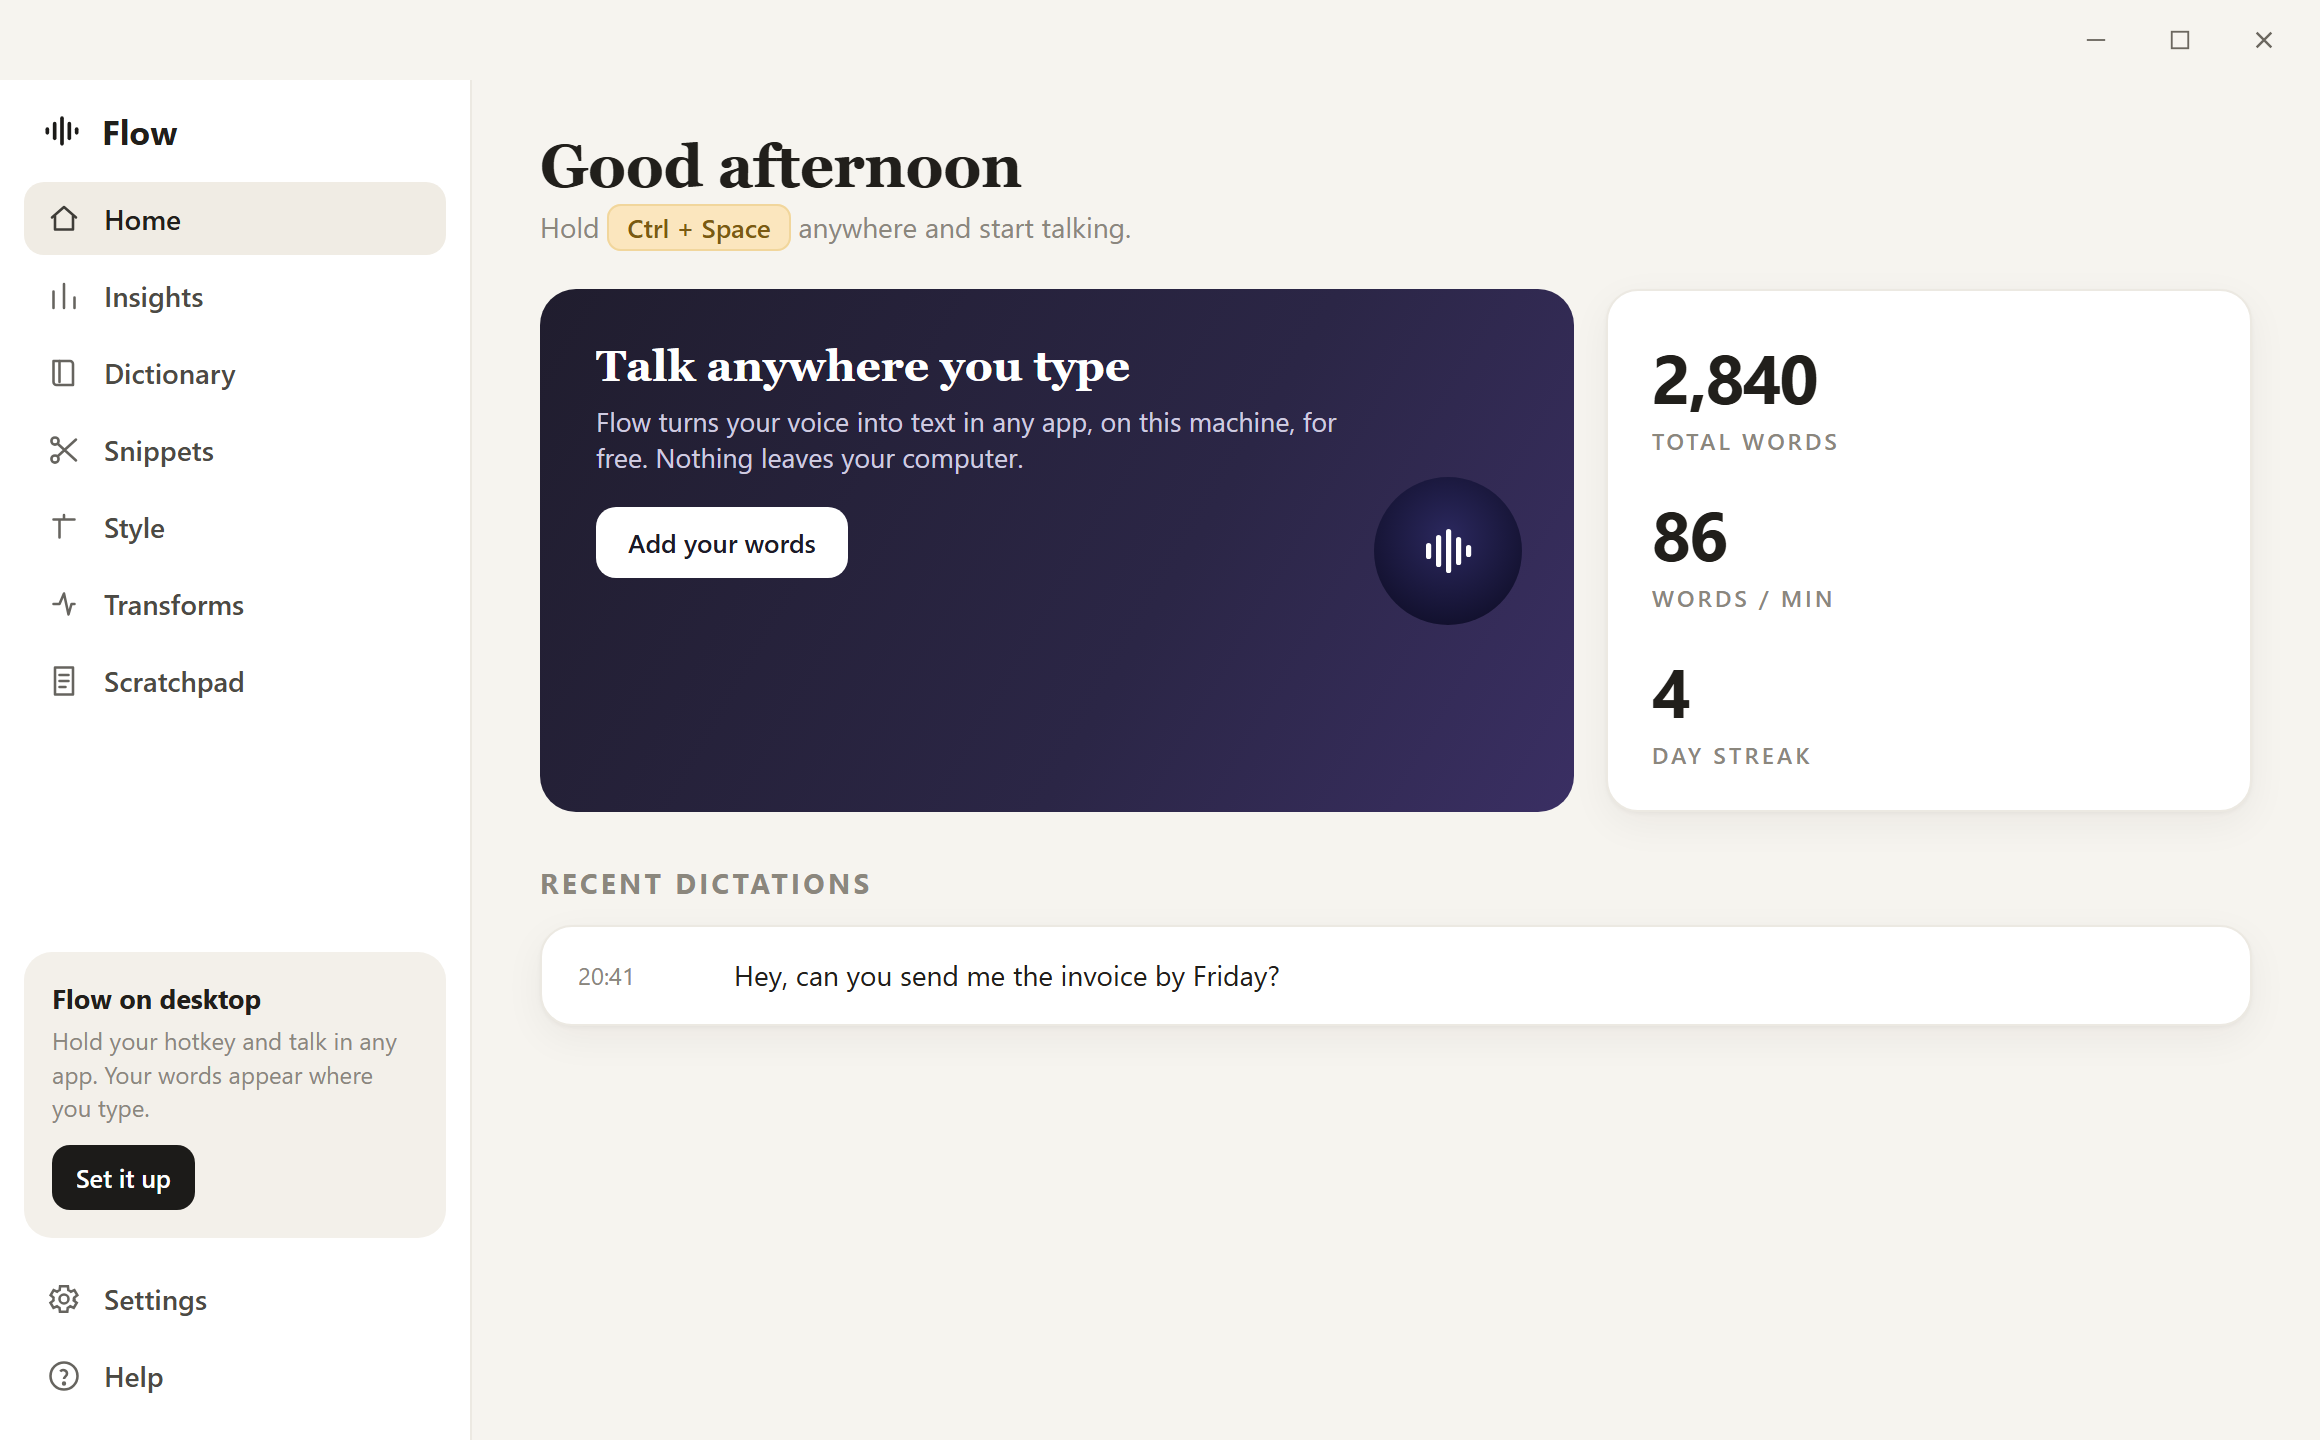
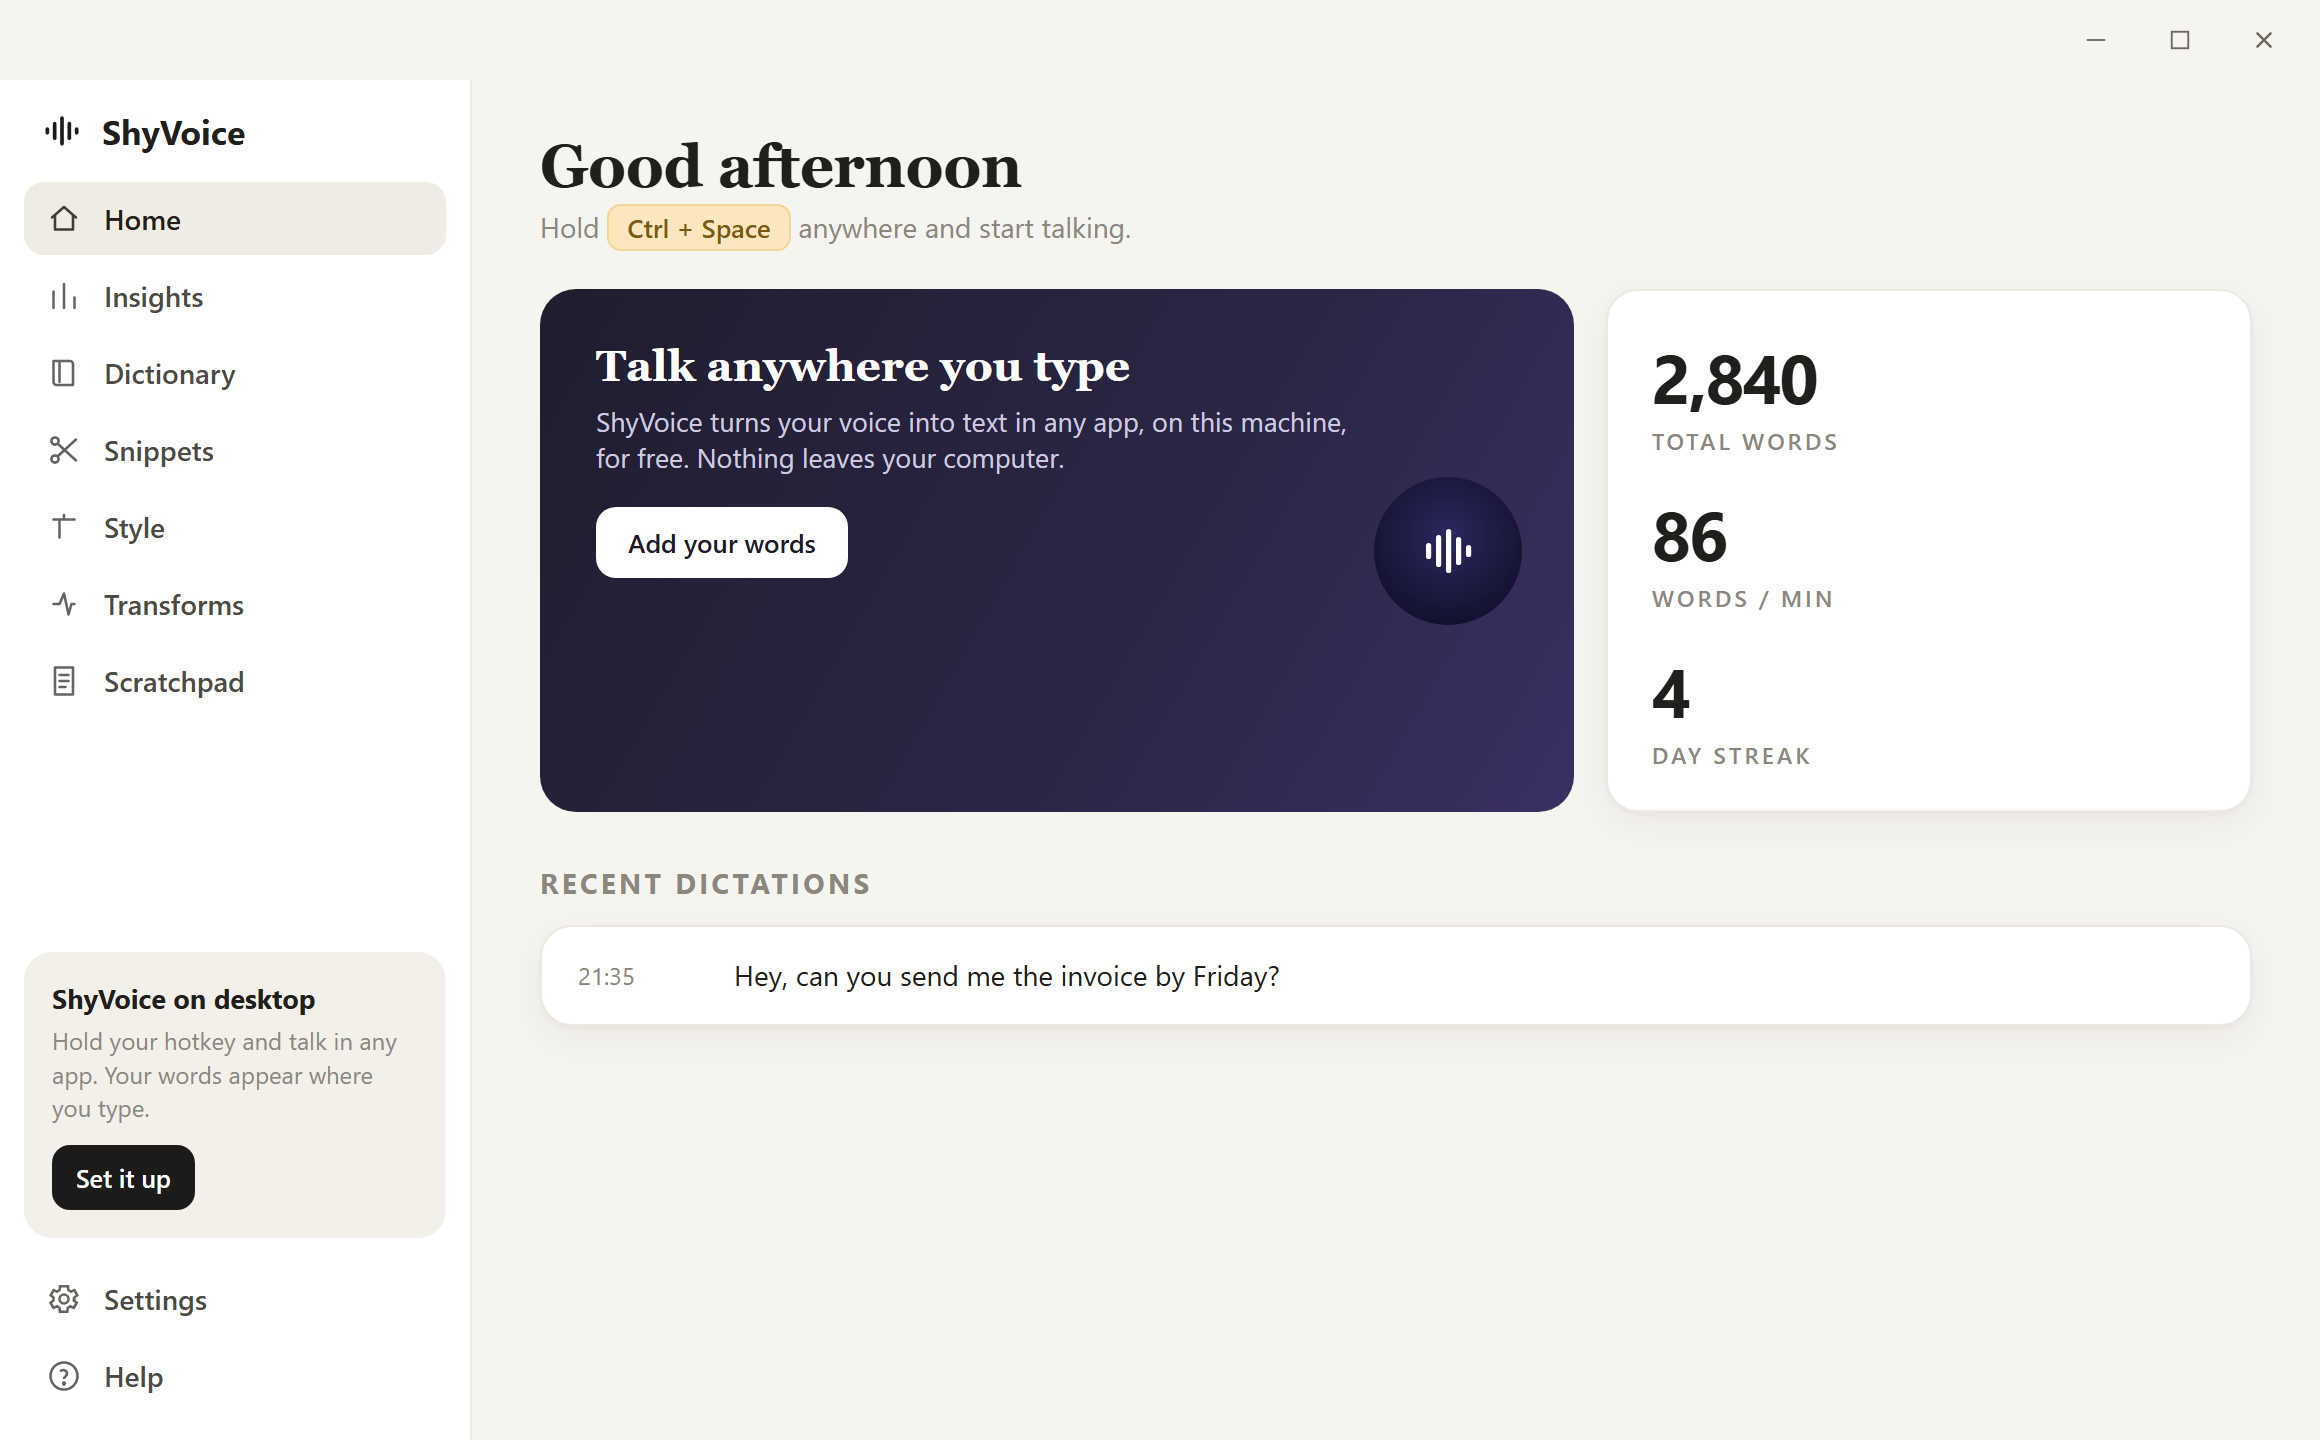
Rebrand Flow -> ShyVoice (a ShyLabs project)
Rename the app, UI, tray/window strings, exe (ShyVoice.exe), data folder, and
README to ShyVoice. Internal namespace/classes and the WebView bridge kept as-is.

diff --git a/ui/index.html b/ui/index.html
@@ -3,7 +3,7 @@
 <head>
 <meta charset="utf-8">
 <meta name="viewport" content="width=device-width, initial-scale=1">
-<title>Flow</title>
+<title>ShyVoice</title>
 <style>
   :root{
     --bg:#F6F4EF; --sidebar:#FFFFFF; --card:#FFFFFF; --ink:#211F1B; --muted:#8B877D;
@@ -150,10 +150,10 @@
     <aside class="sidebar">
       <div class="brand"><span class="logo">
         <svg viewBox="0 0 24 24" width="22" height="22"><g stroke="#1C1B19" stroke-width="2" stroke-linecap="round"><line x1="8" y1="8" x2="8" y2="16"/><line x1="12" y1="5" x2="12" y2="19"/><line x1="16" y1="8" x2="16" y2="16"/><line x1="20" y1="11" x2="20" y2="13"/><line x1="4" y1="11" x2="4" y2="13"/></g></svg>
-      </span>Flow</div>
+      </span>ShyVoice</div>
       <div class="navwrap"><nav id="nav"></nav></div>
       <div class="promo">
-        <h4>Flow on desktop</h4>
+        <h4>ShyVoice on desktop</h4>
         <p>Hold your hotkey and talk in any app. Your words appear where you type.</p>
         <button class="mini" data-nav="style">Set it up</button>
       </div>
@@ -170,7 +170,7 @@
         <div class="grid g2">
           <div class="banner">
             <h2>Talk anywhere you type</h2>
-            <p>Flow turns your voice into text in any app, on this machine, for free. Nothing leaves your computer.</p>
+            <p>ShyVoice turns your voice into text in any app, on this machine, for free. Nothing leaves your computer.</p>
             <button class="go" data-nav="dictionary">Add your words</button>
             <div class="orb"><svg width="40" height="40" viewBox="0 0 40 40"><g fill="#fff"><rect x="9" y="16" width="2.6" height="8" rx="1.3"/><rect x="14" y="12" width="2.6" height="16" rx="1.3"/><rect x="19" y="9" width="2.6" height="22" rx="1.3"/><rect x="24" y="13" width="2.6" height="14" rx="1.3"/><rect x="29" y="17" width="2.6" height="6" rx="1.3"/></g></svg></div>
           </div>
@@ -200,7 +200,7 @@
 
       <section class="page" id="page-dictionary">
         <h1 class="title">Dictionary</h1>
-        <p class="sub">Teach Flow the names and words you use so they spell right every time.</p>
+        <p class="sub">Teach ShyVoice the names and words you use so they spell right every time.</p>
         <div class="card" style="padding:18px 20px">
           <div id="dictChips"></div>
           <div class="addrow">
@@ -225,7 +225,7 @@
 
       <section class="page" id="page-style">
         <h1 class="title">Style</h1>
-        <p class="sub">How Flow formats what you say.</p>
+        <p class="sub">How ShyVoice formats what you say.</p>
         <div class="card" id="styleCard"></div>
         <div class="sectionhead"><h3>Bar color</h3></div>
         <div class="card" style="padding:16px 18px"><div id="themeRow" style="display:flex;gap:10px;flex-wrap:wrap"></div></div>

diff --git a/src/FlowContext.cs b/src/FlowContext.cs
@@ -54,7 +54,7 @@ public sealed class FlowContext : ApplicationContext
         _tray = new NotifyIcon
         {
             Icon = IconFactory.Create(_settings.Enabled),
-            Text = "Flow — loading model…",
+            Text = "ShyVoice — loading model…",
             Visible = true,
         };
         BuildMenu();
@@ -97,12 +97,12 @@ public sealed class FlowContext : ApplicationContext
             {
                 // First run with no model: fetch the default one (~148 MB) automatically.
                 SetStatus("Downloading model…");
-                _tray.ShowBalloonTip(4000, "Flow", "First run: downloading the speech model (~148 MB). One-time.", ToolTipIcon.Info);
+                _tray.ShowBalloonTip(4000, "ShyVoice", "First run: downloading the speech model (~148 MB). One-time.", ToolTipIcon.Info);
                 bool ok = await TryDownloadModelAsync(model);
                 if (!ok || !File.Exists(model))
                 {
                     SetStatus("Model not found");
-                    _tray.ShowBalloonTip(9000, "Flow",
+                    _tray.ShowBalloonTip(9000, "ShyVoice",
                         $"Couldn't download the speech model.\nPut a ggml model here and restart:\n{Path.GetDirectoryName(model)}",
                         ToolTipIcon.Warning);
                     return;
@@ -121,13 +121,13 @@ public sealed class FlowContext : ApplicationContext
 
             _modelReady = true;
             SetStatus(_settings.Enabled ? "Ready" : "Disabled");
-            _tray.ShowBalloonTip(3000, "Flow is ready",
+            _tray.ShowBalloonTip(3000, "ShyVoice is ready",
                 $"Hold {_settings.Modifier} + {_settings.Key} and speak.", ToolTipIcon.Info);
         }
         catch (Exception ex)
         {
             SetStatus("Model failed to load");
-            _tray.ShowBalloonTip(6000, "Flow error", ex.Message, ToolTipIcon.Error);
+            _tray.ShowBalloonTip(6000, "ShyVoice error", ex.Message, ToolTipIcon.Error);
         }
     }
 
@@ -166,7 +166,7 @@ public sealed class FlowContext : ApplicationContext
         if (!_settings.Enabled || _busy) return;
         if (!_modelReady)
         {
-            _tray.ShowBalloonTip(2000, "Flow", "Still loading the model, one sec…", ToolTipIcon.Info);
+            _tray.ShowBalloonTip(2000, "ShyVoice", "Still loading the model, one sec…", ToolTipIcon.Info);
             return;
         }
         if (_recorder.IsRecording) return;
@@ -310,7 +310,7 @@ public sealed class FlowContext : ApplicationContext
         }
         catch (Exception ex)
         {
-            _tray.ShowBalloonTip(4000, "Flow error", ex.Message, ToolTipIcon.Error);
+            _tray.ShowBalloonTip(4000, "ShyVoice error", ex.Message, ToolTipIcon.Error);
         }
         finally
         {
@@ -350,7 +350,7 @@ public sealed class FlowContext : ApplicationContext
     {
         var menu = new ContextMenuStrip();
 
-        _statusItem = new ToolStripMenuItem("Flow — loading…") { Enabled = false };
+        _statusItem = new ToolStripMenuItem("ShyVoice — loading…") { Enabled = false };
         menu.Items.Add(_statusItem);
         menu.Items.Add(new ToolStripMenuItem($"Hold {_settings.Modifier} + {_settings.Key} to talk") { Enabled = false });
         menu.Items.Add(new ToolStripMenuItem($"Hold {_settings.TransformModifier} + {_settings.TransformKey} to polish") { Enabled = false });
@@ -358,7 +358,7 @@ public sealed class FlowContext : ApplicationContext
 
         menu.Items.Add(new ToolStripSeparator());
 
-        var openItem = new ToolStripMenuItem("Open Flow", null, (_, _) => OpenMain());
+        var openItem = new ToolStripMenuItem("Open ShyVoice", null, (_, _) => OpenMain());
         openItem.Font = new Font(openItem.Font, FontStyle.Bold);
         menu.Items.Add(openItem);
 
@@ -411,7 +411,7 @@ public sealed class FlowContext : ApplicationContext
         menu.Items.Add(new ToolStripMenuItem("Open data folder", null, (_, _) => OpenPath(AppSettings.DataDir)));
 
         menu.Items.Add(new ToolStripSeparator());
-        menu.Items.Add(new ToolStripMenuItem("Quit Flow", null, (_, _) => Quit()));
+        menu.Items.Add(new ToolStripMenuItem("Quit ShyVoice", null, (_, _) => Quit()));
 
         _tray.ContextMenuStrip = menu;
     }
@@ -457,7 +457,7 @@ public sealed class FlowContext : ApplicationContext
         _ai = new AiTransformer(_settings);
         _overlay.Theme = PillThemes.Get(_settings.Theme);
 
-        if (notify) _tray.ShowBalloonTip(2000, "Flow", "Dictionary and snippets reloaded.", ToolTipIcon.Info);
+        if (notify) _tray.ShowBalloonTip(2000, "ShyVoice", "Dictionary and snippets reloaded.", ToolTipIcon.Info);
     }
 
     private void OpenMain()
@@ -468,8 +468,8 @@ public sealed class FlowContext : ApplicationContext
 
     private void SetStatus(string status)
     {
-        _statusItem.Text = $"Flow — {status}";
-        _tray.Text = $"Flow — {status}";
+        _statusItem.Text = $"ShyVoice — {status}";
+        _tray.Text = $"ShyVoice — {status}";
     }
 
     private static void OpenPath(string path)

diff --git a/Program.cs b/Program.cs
@@ -10,11 +10,11 @@ internal static class Program
     [STAThread]
     private static void Main()
     {
-        using var mutex = new Mutex(true, "Flow_VoiceDictation_SingleInstance", out bool isNew);
+        using var mutex = new Mutex(true, "ShyVoice_SingleInstance", out bool isNew);
         if (!isNew)
         {
-            MessageBox.Show("Flow is already running. Look for the mic icon in your system tray.",
-                "Flow", MessageBoxButtons.OK, MessageBoxIcon.Information);
+            MessageBox.Show("ShyVoice is already running. Look for the mic icon in your system tray.",
+                "ShyVoice", MessageBoxButtons.OK, MessageBoxIcon.Information);
             return;
         }
 

diff --git a/src/MainWindow.cs b/src/MainWindow.cs
@@ -24,7 +24,7 @@ public sealed class MainWindow : Form
     {
         _bridge = new FlowBridge(this, reloadData);
 
-        Text = "Flow";
+        Text = "ShyVoice";
         FormBorderStyle = FormBorderStyle.None;
         StartPosition = FormStartPosition.CenterScreen;
         ClientSize = new Size(1180, 800);
@@ -68,7 +68,7 @@ public sealed class MainWindow : Form
         }
         catch (Exception ex)
         {
-            MessageBox.Show("Could not start the Flow window.\n\n" + ex.Message, "Flow",
+            MessageBox.Show("Could not start the ShyVoice window.\n\n" + ex.Message, "ShyVoice",
                 MessageBoxButtons.OK, MessageBoxIcon.Error);
         }
     }

diff --git a/src/StartupManager.cs b/src/StartupManager.cs
@@ -3,11 +3,11 @@ using Microsoft.Win32;
 
 namespace Flow;
 
-/// <summary>Toggles "launch Flow when I sign in" via the per-user Run registry key.</summary>
+/// <summary>Toggles "launch ShyVoice when I sign in" via the per-user Run registry key.</summary>
 internal static class StartupManager
 {
     private const string RunKey = @"Software\Microsoft\Windows\CurrentVersion\Run";
-    private const string ValueName = "Flow";
+    private const string ValueName = "ShyVoice";
 
     public static bool IsEnabled()
     {

diff --git a/src/AppSettings.cs b/src/AppSettings.cs
@@ -40,7 +40,7 @@ public sealed class AppSettings
     public string ScratchKey { get; set; } = "N";
 
     public static string DataDir =>
-        Path.Combine(Environment.GetFolderPath(Environment.SpecialFolder.ApplicationData), "Flow");
+        Path.Combine(Environment.GetFolderPath(Environment.SpecialFolder.ApplicationData), "ShyVoice");
 
     public static string SettingsPath => Path.Combine(DataDir, "settings.json");
 

diff --git a/src/InsightsForm.cs b/src/InsightsForm.cs
@@ -9,7 +9,7 @@ public sealed class InsightsForm : Form
 {
     public InsightsForm(Insights i)
     {
-        Text = "Flow — Insights";
+        Text = "ShyVoice — Insights";
         FormBorderStyle = FormBorderStyle.FixedDialog;
         MaximizeBox = false;
         MinimizeBox = false;

diff --git a/README.md b/README.md
@@ -1,12 +1,14 @@
 <div align="center">
 
-# 🎙️ Flow
+# 🎙️ ShyVoice
 
 ### Free, private voice dictation for Windows. Hold a key, talk, and your words appear in any app.
 
-Flow is a free and open-source alternative to paid dictation apps like Wispr Flow.
+ShyVoice is a free and open-source alternative to paid dictation apps like Wispr Flow.
 Speech-to-text runs **100% on your own machine** with [Whisper](https://github.com/ggerganov/whisper.cpp) —
 no account, no subscription, no per-word cost, and nothing ever leaves your computer.
+
+<sub>A **ShyLabs** project.</sub>
 
 [![License: MIT](https://img.shields.io/badge/License-MIT-17836B.svg)](LICENSE)
 ![Platform](https://img.shields.io/badge/Windows-x64%20%7C%20ARM64-0078D6)
@@ -14,15 +16,15 @@ no account, no subscription, no per-word cost, and nothing ever leaves your comp
 ![Local & Private](https://img.shields.io/badge/100%25-Local%20%26%20Private-17836B)
 ![Price](https://img.shields.io/badge/Price-Free%20forever-2ea44f)
 
-<img src="docs/screenshot.png" alt="Flow dashboard" width="820">
+<img src="docs/screenshot.png" alt="ShyVoice dashboard" width="820">
 
 </div>
 
 ---
 
-## Why Flow?
+## Why ShyVoice?
 
-Good dictation apps cost money and send your voice to their servers. Flow does neither.
+Good dictation apps cost money and send your voice to their servers. ShyVoice does neither.
 
 - 🆓 **Actually free** — no trial, no subscription, no usage cap. MIT licensed.
 - 🔒 **Private by design** — audio is transcribed locally with Whisper and never uploaded. It works with your Wi-Fi off.
@@ -36,10 +38,10 @@ Good dictation apps cost money and send your voice to their servers. Flow does n
 ### Option 1 — Download and run (easiest)
 
 1. Grab the latest **[Release](../../releases/latest)** and download the ZIP for your PC:
-   - `Flow-win-x64.zip` — most Windows PCs (Intel / AMD)
-   - `Flow-win-arm64.zip` — Windows on ARM (Snapdragon, etc.)
-2. Unzip it anywhere and run **`Flow.exe`**.
-3. On first launch Flow downloads the speech model once (~148 MB), then a **"Flow is ready"** popup appears.
+   - `ShyVoice-win-x64.zip` — most Windows PCs (Intel / AMD)
+   - `ShyVoice-win-arm64.zip` — Windows on ARM (Snapdragon, etc.)
+2. Unzip it anywhere and run **`ShyVoice.exe`**.
+3. On first launch ShyVoice downloads the speech model once (~148 MB), then a **"ShyVoice is ready"** popup appears.
 4. Click into any text box, **hold `Ctrl` + `Space`**, talk, and release. Your words are typed in.
 
 > Windows may show a SmartScreen warning because the app isn't code-signed (signing costs money; this is free).
@@ -50,8 +52,8 @@ Good dictation apps cost money and send your voice to their servers. Flow does n
 You need the [.NET 8 SDK](https://dotnet.microsoft.com/download/dotnet/8.0).
 
 ```powershell
-git clone https://github.com/yzgershon/flow.git
-cd flow
+git clone https://github.com/yzgershon/shyvoice.git
+cd shyvoice
 
 # run it
 dotnet run -c Release
@@ -71,7 +73,7 @@ Both are push-to-talk — text lands the instant you let go. Everything else liv
 
 ## Features
 
-- **Custom dictionary** — teach Flow to spell names and jargon right. It hints Whisper toward your spelling *and* fixes common mishears.
+- **Custom dictionary** — teach ShyVoice to spell names and jargon right. It hints Whisper toward your spelling *and* fixes common mishears.
 - **Snippets** — say a trigger phrase, get a saved block of text (your email, a signature, a link).
 - **Insights** — total words, average WPM, words per day, and a daily streak.
 - **Style controls** — trailing spaces, filler-word removal ("um", "uh"), paste vs. type.
@@ -80,7 +82,7 @@ Both are push-to-talk — text lands the instant you let go. Everything else liv
 
 ## Privacy
 
-Your voice is turned into text **on your device** by Whisper. No audio and no transcripts are ever sent anywhere — the only network request Flow ever makes on its own is the one-time model download on first run (and optional cloud AI, only if *you* turn it on and add a key). Your settings and history live in a local folder (`%APPDATA%\Flow`) that only you can see.
+Your voice is turned into text **on your device** by Whisper. No audio and no transcripts are ever sent anywhere — the only network request ShyVoice ever makes on its own is the one-time model download on first run (and optional cloud AI, only if *you* turn it on and add a key). Your settings and history live in a local folder (`%APPDATA%\ShyVoice`) that only you can see.
 
 ## How it works
 
@@ -95,10 +97,12 @@ Built for **Windows on x64 and ARM64**, running natively on both.
 
 ## Contributing
 
-Issues and pull requests are welcome. This started as a personal project to avoid paying for dictation — if it's useful to you, a ⭐ helps other people find it.
+Issues and pull requests are welcome. ShyVoice started as a personal project to avoid paying for dictation — if it's useful to you, a ⭐ helps other people find it.
 
 ## License
 
 [MIT](LICENSE) — free to use, modify, and share.
 
 Whisper models are © their respective authors and downloaded from [Hugging Face](https://huggingface.co/ggerganov/whisper.cpp) on first run.
+
+<div align="center"><sub>Part of <b>ShyLabs</b> — tools built by <a href="https://github.com/yzgershon">@yzgershon</a>.</sub></div>